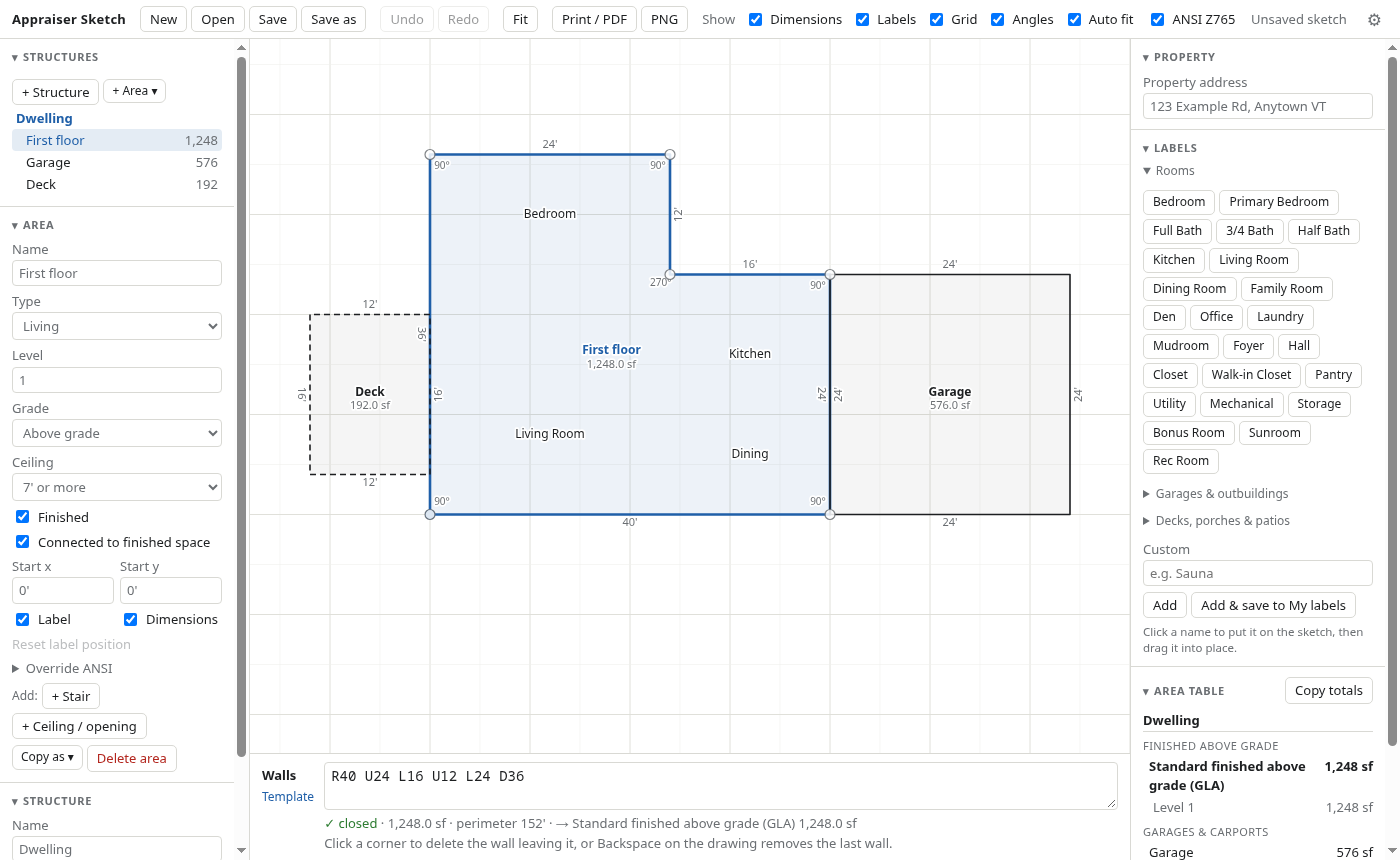
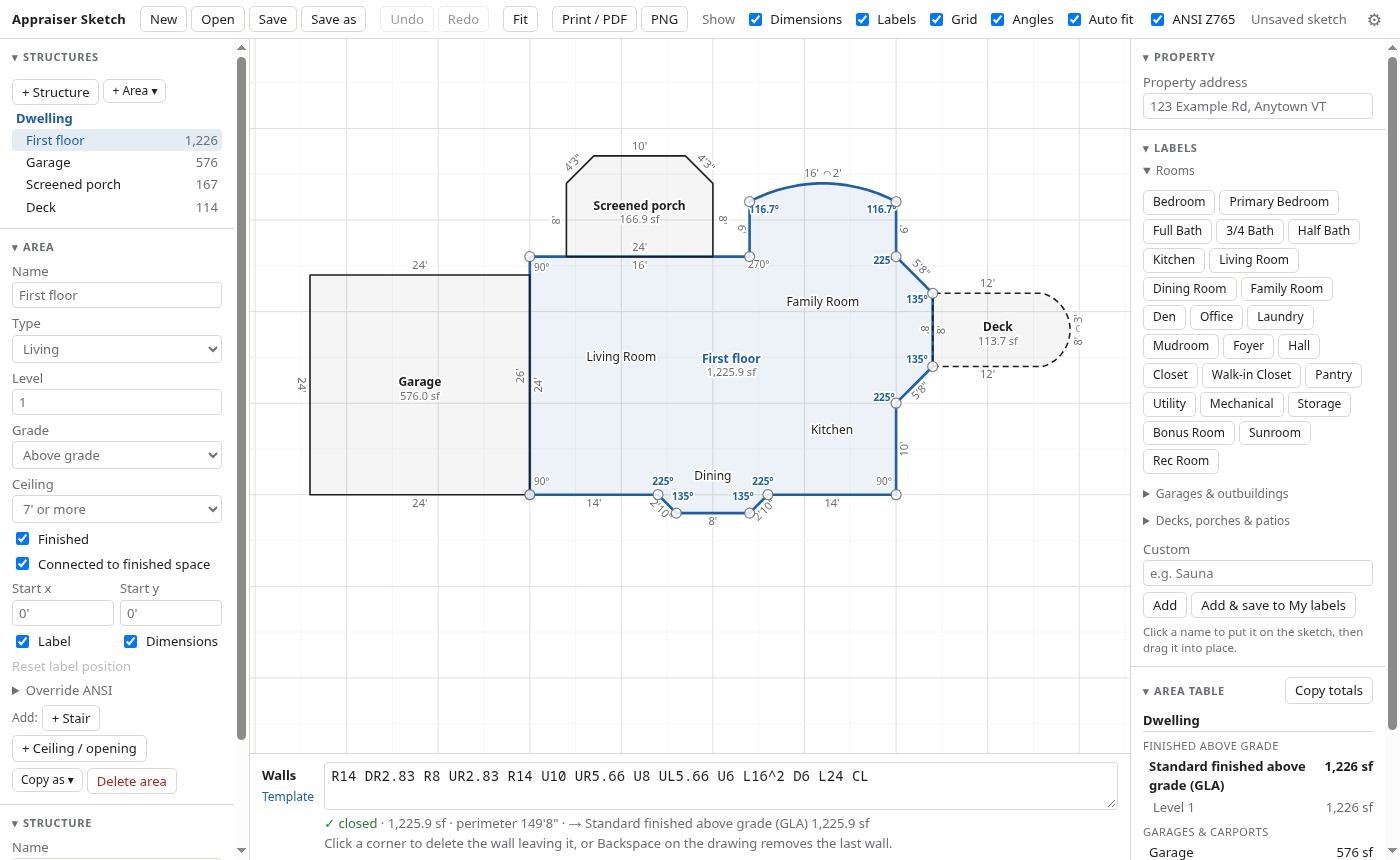
README: more detailed sample plan, with light and dark screenshots

diff --git a/README.md b/README.md
@@ -4,7 +4,10 @@
 
 Draw the house from your field notes, get gross living area and the other area totals measured to ANSI Z765, and print a sketch exhibit for the report. It runs entirely in your browser: there is no account, no subscription, and nothing is sent anywhere.
 
-![Appraiser Sketch showing an L-shaped first floor with an attached garage and deck, and the area table with GLA](docs/screenshot.png)
+<picture>
+  <source media="(prefers-color-scheme: dark)" srcset="docs/screenshot-dark.png">
+  <img src="docs/screenshot.png" alt="Appraiser Sketch drawing a first floor with a 45° bay, clipped corners and a curved wall, plus a garage, screened porch and deck, with the GLA area table">
+</picture>
 
 **Use it now:** https://longtrailappraisal.github.io/appraiser-sketch (nothing to install)
 
